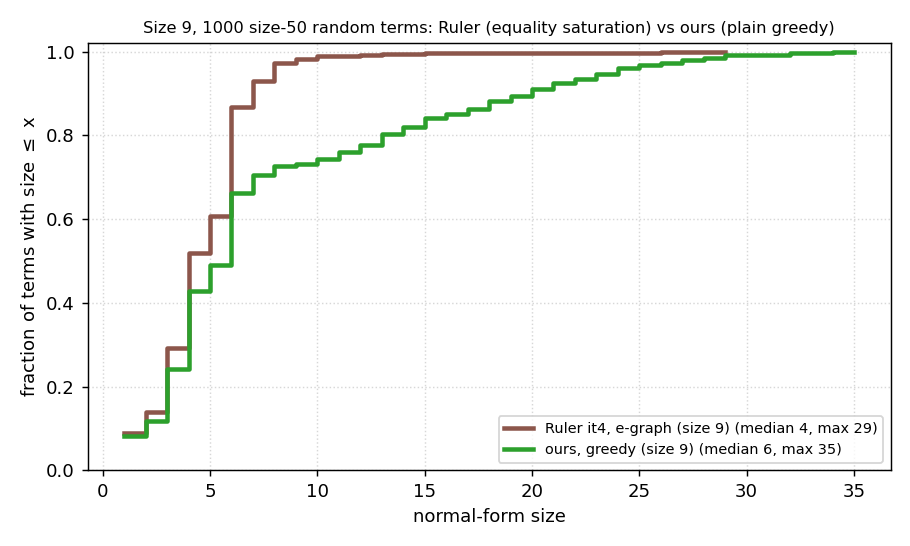
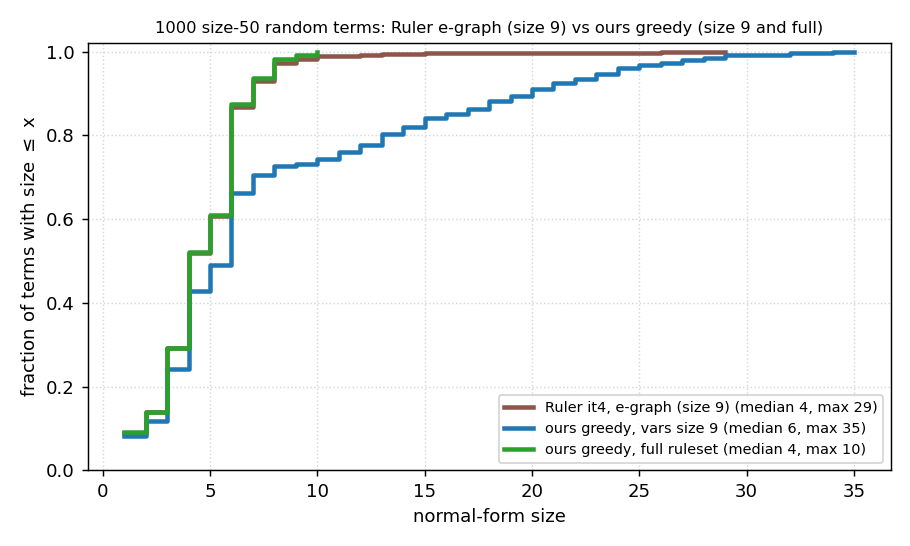
new data

diff --git a/evaluation_summary.md b/evaluation_summary.md
@@ -139,6 +139,27 @@ As a sanity check we also normalized Ruler's own rule terms with our rules
 (`eval/ruler/ruler_bool_3_2_0_norm_vcs3.txt`): every Ruler equality collapses to
 a single normal form, i.e. **our rules prove all of Ruler's equalities**.
 
+### Synthesis cost
+
+How long does it take to *produce* these rule sets? Our times are the cumulative
+synthesis wall-clock (from the run logs, 4 workers); Ruler's are re-measured on
+the same machine (`./target/debug/bool synth --variables 3 --iters {2,4}`).
+Recall `it2 ≈ size 5`, `it4 ≈ size 9`.
+
+| rule set | rules | synth time |
+|----------|------:|-----------:|
+| ours, holes-only, size ≤ 5 (`bool_v0c3_s5`) | 154 | < 0.05 s |
+| ours, holes-only, size ≤ 9 (`bool_v0c3_s9`) | 9 535 | 0.5 s |
+| ours, vars+holes, size ≤ 5 (`bool_vcs3_s5`) | 227 | < 0.05 s |
+| ours, vars+holes, size ≤ 9 (`bool_vcs3_s9`) | 4 213 | 1.1 s |
+| ours, vars+holes, **full / complete** (`bool_vcs3`) | 117 265 | 9 985 s (≈ 2.8 h) |
+| Ruler `it2` (≈ size 5) | 18 | 0.29 s |
+| Ruler `it4` (≈ size 9) | 33 | 128 s |
+
+**(1) Reaching a given rule size is cheap for us.** Our size-9
+variable set (4 213 rules) is synthesized in **1.1 s**, ~100× faster than Ruler's
+**128 s** for its size-9 set — exhaustive size-stratified enumeration up to size 9
+is far cheaper than 4 iterations of equality saturation. 
 ---
 
 ## Simplification of random terms
@@ -256,25 +277,87 @@ blows up (the run did not saturate).
 and weaker than the shared-e-graph `parallel` mode and is kept only for
 reference.)*
 
-### Headline: our greedy vs. Ruler's e-graph, at size 9
+### Engines compared: greedy vs. e-graph (parallel / sequential)
+
+We benchmarked the three normalizers on 50 random terms of growing size (memory-
+safe node caps: parallel 100 k, sequential 50 k). E-graph cost is
+`O(#terms × 6^iters)` in nodes (AC rules grow the graph ~6×/iteration) and
+extraction scales with graph size; greedy memory is `O(term size)`.
+
+![engines: quality and memory vs term size](eval/terms/bench/fig_methods.png)
+
+*Figure RQ4f. Mean normal-form size (left) and peak memory (right, log)
+vs. input term size. × = no result (OOM / extraction timeout).*
+
+| input size | greedy | parallel (100 k) | sequential (50 k) |
+|-----------:|-------:|-----------------:|------------------:|
+| 50   | 5 | 6   | 9   |
+| 250  | 5 | 19  | 21  |
+| 500  | 4 | 154 | 28  |
+| 1000 | 4 | 206 | 63  |
+| 2000 | 5 | ✗   | 46  |
+| 3000 | 5 | ✗   | 262 |
+
+*(mean normal-form size; greedy is flat ~4–5 at every size, both e-graph modes
+degrade with size, parallel stops returning past ~1000.)*
+
+**Greedy is also ~2 orders of magnitude faster:**
+
+![speed at size 1000](eval/terms/bench/fig_speed.png)
+
+*Figure RQ4g. Wall-clock to normalize 50 size-1000 terms: greedy 0.6 s vs.
+parallel 79 s (135×) and sequential 44 s (75×).*
+
+- **Greedy**: flat quality (~4–5), **<1 s**, ~0.15 GB at every size — cost is
+  independent of term count and iterations.
+- **Parallel e-graph**: quality collapses past size ~500 (node cap bites earlier
+  for bigger terms) and it **stops returning past ~1000** (global extraction from
+  the ~1 M-node graph never finishes; a higher cap OOMs — space, never time).
+- **Sequential e-graph**: per-term extraction is cheap so it is the *only* mode
+  that still returns at size 3000, but quality is poor and variable and it is
+  ~75× slower than greedy. Its memory *decreases* with term size (right panel,
+  red): the node cap is checked between iterations, so peak memory is set by the
+  iteration that overshoots it. A *small* term reaches the cap only after many
+  iterations and crosses it with a large multiplicative jump (big overshoot — a
+  single size-50 term peaks at 0.57 GB); a *large* term already starts near the
+  cap and crosses it in 1–2 iterations with little overshoot (size-3000: 0.14 GB).
+
+Net on large terms: **greedy ≫ sequential e-graph ≫ parallel e-graph**.
+Full matrix and trajectories: `eval/terms/bench/FINDINGS.md`.
+
+### Headline: our greedy vs. Ruler's e-graph
 
 The fairest single picture pits each tool's *intended* normalizer against the
-other's at the same rule size: Ruler's rules under **equality saturation** (its
-designed setting) vs. our (variable) rules under **plain greedy** normalization
-(ours).
+other's: Ruler's rules under **equality saturation** (its designed setting) vs.
+our (variable) rules under **plain greedy** normalization (ours), at the matched
+size 9 and with our full complete set.
 
-![Ruler e-graph vs ours greedy, size 9](eval/terms/fig_final.png)
+![Ruler e-graph vs ours greedy](eval/terms/fig_final.png)
 
-*Figure RQ4e. 1000 size-50 random terms, size-9 rules. Ruler `it4` in a full
-e-graph reaches median 4 (max 29); our `vcs3_s9` rules under a single greedy /
-discrimination-tree pass reach median 6 (max 35).*
+*Figure RQ4e. 1000 size-50 random terms. Ruler `it4` in a full e-graph reaches
+median 4 (max 29); our variable `s9` rules under a single greedy /
+discrimination-tree pass reach median 6 (max 35); our **full** rules under the
+same greedy pass reach **median 4, max 10**.*
 
-**Our cheap greedy pass is competitive with Ruler's full equality-saturation
-machinery.** The two distributions nearly coincide (medians 6 vs. 4) — we get
-within ~2 nodes of the e-graph result without building an e-graph at all, using
-only oriented, terminating rewriting. (For reference, the *holes-only* greedy
-rules at size 9 reach only median 23 — the variable rules are what make greedy
-competitive here, cf. Fig. RQ4b.)
+Two takeaways. **(1) Even our cheap, size-9 greedy pass is competitive with
+Ruler's full equality-saturation machinery** — medians 6 vs. 4, within ~2 nodes,
+without building an e-graph at all. **(2) Our *complete* set under plain greedy
+*matches* Ruler's e-graph on the median (4 vs. 4) and is strictly better in the
+worst case (max 10 vs. 29):** because every greedy normal form is an irreducible,
+our complete set cannot leave anything above size 10 (the largest irreducible),
+whereas the bounded e-graph still has a tail out to 29. (For reference, *holes-only*
+greedy at size 9 reaches only median 23 — the variable rules are what make greedy
+competitive at a size cap, cf. Fig. RQ4b.)
+
+The same comparison on **size-1000** inputs sharpens the picture:
+
+![size-1000 normal-form distribution](eval/terms/bench/fig_final_1000.png)
+
+*Figure RQ4e(b). 50 size-1000 random terms. Greedy with the full set reduces
+*every* term to ≤ 9 (median 4); Ruler `it4` in an e-graph has the same median but
+a heavy tail (20 % of terms stay > 10, up to 146); greedy with the size-9 set is
+weakest (median 25). On large terms greedy-full is both the most reliable and the
+only one with a hard size bound.*
 
 ---
 
@@ -292,7 +375,10 @@ competitive here, cf. Fig. RQ4b.)
    `eval/terms/fig_eqsat.{png,tex}` side by side (RQ4c/d): Ruler vs. ours under
    greedy vs. e-graph — the method-vs-rule-style story.
 8. **Fig. 6 (headline)** — `eval/terms/fig_final.{png,tex}` (RQ4e): our plain
-   greedy vs. Ruler's e-graph at size 9 — ours is competitive without an e-graph.
+   greedy (size 9 and full) vs. Ruler's e-graph — our complete set matches the
+   e-graph median and beats its worst case, no e-graph needed.
+9. **Table 3** — synthesis cost (§3): our size-5/9 holes/vars and full runs vs.
+   Ruler `it2`/`it4` generation time.
 
 ---
 
